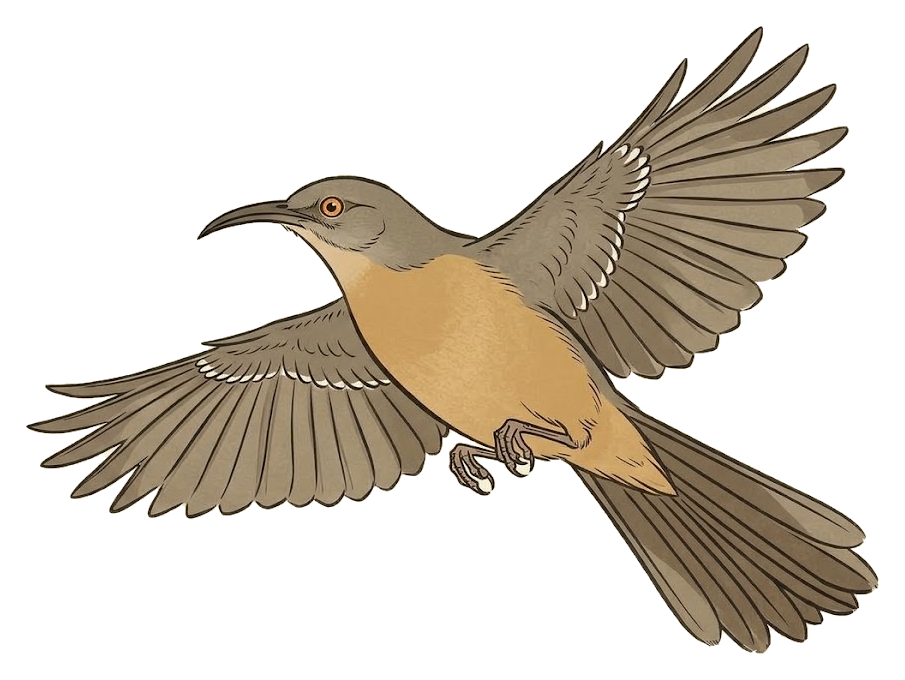
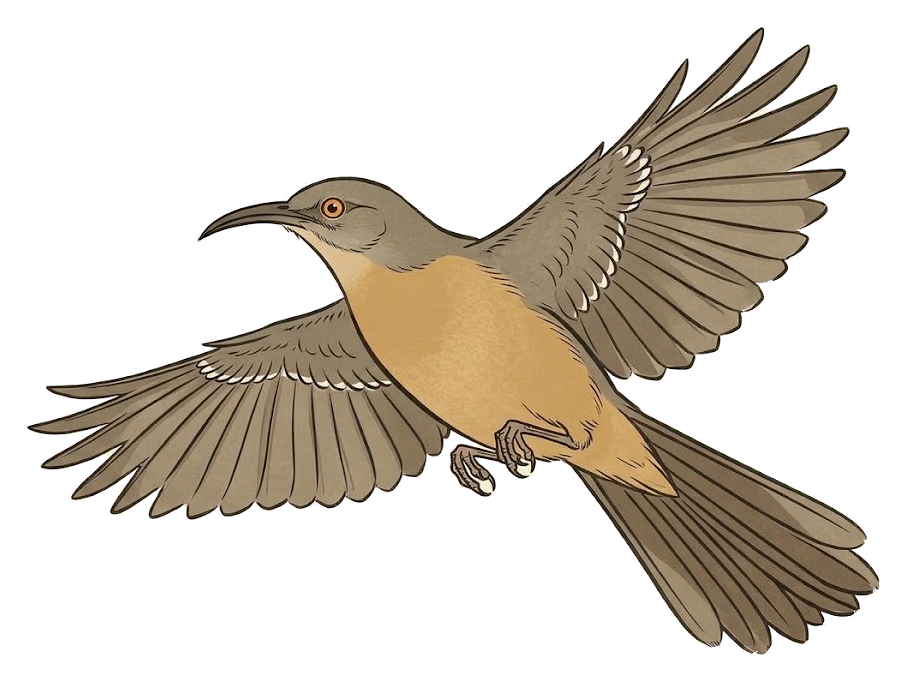
atlas: soft, rim-free edges on generated bird art
The cream-ground cutout kept anti-aliased edge pixels opaque with their
paper tint, tracing a pale rim round every dark edge that read as a
jagged outline in the Atlas and collage. Edges now get a
colour-difference matte: each edge pixel's alpha is how far it sits
from the paper toward the bird colour just inside, and its colour is
unmixed from the paper. Measured on the six new renders, the outer ring
was 110-200 levels brighter than the ink beside it; now 42-58, against
65-70 for the original BiRefNet cuts. The six are re-cut, with new
ART_REVISIONS so browsers fetch them. A test covers the rim.

diff --git a/avian/frontend/apt.js b/avian/frontend/apt.js
@@ -14,13 +14,14 @@
   // with clean cutouts, so drop every cached copy.
   // Keep table and one-off art revisions separate from the library-wide
   // versions above. A corrected species should not evict every bird image.
-  var TABLE_VERSION = 'r14';
+  var TABLE_VERSION = 'r15';
   var ART_REVISIONS = {
     'aphelocoma-woodhouseii': 'anatomy-1',
-    // 2026-10-11: first art for these three (Nano Banana 2, by hand).
-    'pica-hudsonia': 'nb2-1',
-    'dryobates-scalaris': 'nb2-2',
-    'toxostoma-curvirostre': 'nb2-1'
+    // 2026-10-11: first art for these three (Nano Banana 2, by hand);
+    // -soft: re-cut with the soft edge matte.
+    'pica-hudsonia': 'nb2-1-soft',
+    'dryobates-scalaris': 'nb2-2-soft',
+    'toxostoma-curvirostre': 'nb2-1-soft'
   };
   function artRevision(sci, fallback) {
     return ART_REVISIONS[slugify(String(sci || ''))] || fallback;

diff --git a/avian/frontend/index.html b/avian/frontend/index.html
@@ -399,6 +399,6 @@ var p=preference();d.setAttribute('data-theme',p==='light'||p==='dark'?p:systemT
 <script src="./stamp-batch-a.js?v=r341"></script>
   <script src="./stamp-batch-b.js?v=r318"></script>
 <script src="./stamp-batch-c.js?v=r235"></script>
-<script src="./apt.js?v=r302"></script>
+<script src="./apt.js?v=r303"></script>
 </body>
 </html>

diff --git a/avian/scripts/generate_one.py b/avian/scripts/generate_one.py
@@ -78,12 +78,57 @@ def _solid_mask(dist: np.ndarray, tol: float) -> np.ndarray:
     return np.asarray(sm) > 127
 
 
+def _box(a: np.ndarray, r: int) -> np.ndarray:
+    """Mean over a (2r+1)-square window, edges clamped (HxW or HxWxC)."""
+    k = 2 * r + 1
+    pad = [(r, r), (r, r)] + [(0, 0)] * (a.ndim - 2)
+    c = np.cumsum(np.cumsum(np.pad(a, pad, mode="edge"), 0), 1)
+    c = np.pad(c, [(1, 0), (1, 0)] + [(0, 0)] * (a.ndim - 2))
+    return (c[k:, k:] - c[:-k, k:] - c[k:, :-k] + c[:-k, :-k]) / (k * k)
+
+
+def _morph(mask: np.ndarray, size: int, grow: bool) -> np.ndarray:
+    im = Image.fromarray(mask.astype(np.uint8) * 255)
+    im = im.filter(ImageFilter.MaxFilter(size) if grow else ImageFilter.MinFilter(size))
+    return np.asarray(im) > 127
+
+
+def _edge_matte(arr: np.ndarray, paper: np.ndarray, solid: np.ndarray,
+                noise: float) -> tuple[np.ndarray, np.ndarray]:
+    """Soft alpha and paper-free colour in a thin band round the silhouette.
+
+    Each edge pixel is a mix of the bird colour just inside it (F, the
+    average of nearby interior pixels) and the paper (P); alpha is how far
+    it sits from P toward F, and its colour is unmixed from the paper.
+    Keeping those pixels opaque with their paper tint (the old feather)
+    traced a pale rim round every dark edge, which read as a jagged
+    outline on the site's lighter backgrounds. Where F is too close to the
+    paper to tell them apart (a pale throat on cream), the silhouette is
+    kept, lightly softened."""
+    C = arr.astype(np.float64)
+    P = np.asarray(paper, np.float64)
+    inner = _morph(solid, 5, grow=False)
+    band = _morph(solid, 5, grow=True) & ~inner
+    weight = _box(inner.astype(np.float64), 4)
+    F = _box(C * inner[..., None], 4) / np.maximum(weight, 1e-6)[..., None]
+    FP, CP = F - P, C - P
+    fp2 = (FP ** 2).sum(2)
+    a = np.clip((CP * FP).sum(2) / np.maximum(fp2, 1e-6), 0.0, 1.0)
+    weak = (fp2 < (3 * noise) ** 2) | (weight < 0.02)
+    a = np.where(weak, _box(solid.astype(np.float64), 1), a)
+    alpha = np.where(inner, 1.0, np.where(band, a, 0.0))
+    out = C.copy()
+    m = band & (alpha > 0.05)
+    out[m] = np.clip(P + CP[m] / alpha[m][:, None], 0, 255)
+    return alpha, out.astype(np.uint8)
+
+
 def chroma_cut(src: Path, dst: Path, tol: float | None = None) -> None:
     """Instant cutout for a cream-ground render: everything reachable from
     the border through near-paper pixels is background; everything else is
     bird. Enclosed pale patches (a white belly) are unreachable, so they
     stay opaque - the same property the BiRefNet pipeline's fill step has
-    to reconstruct. Edges get a light feather instead of a learned matte.
+    to reconstruct. Edges get a colour-difference matte (_edge_matte).
 
     The paper tolerance adapts per image: the model renders real grain
     and a slight vignette, so the ground's distance-from-corner-paper
@@ -101,8 +146,9 @@ def chroma_cut(src: Path, dst: Path, tol: float | None = None) -> None:
     dist = np.sqrt(((arr.astype(np.int32) - paper) ** 2).sum(2))
     border = np.concatenate([dist[:40, :].ravel(), dist[-40:, :].ravel(),
                              dist[:, :40].ravel(), dist[:, -40:].ravel()])
+    noise = float(np.percentile(border, 99))
     if tol is None:
-        auto = float(min(40.0, max(15.0, 2.5 * np.percentile(border, 99))))
+        auto = float(min(40.0, max(15.0, 2.5 * noise)))
         solid = _solid_mask(dist, auto)
         # Leak check: where pale plumage meets the ground with no ink line,
         # the flood runs into the bird. A tighter cut then keeps much more
@@ -113,13 +159,10 @@ def chroma_cut(src: Path, dst: Path, tol: float | None = None) -> None:
             solid = tight
     else:
         solid = _solid_mask(dist, tol)
-    binary = solid.astype(np.uint8) * 255
-    # Feather: soften the silhouette edge, keep the interior fully opaque,
-    # never bleed outside the silhouette.
-    af = np.asarray(Image.fromarray(binary).filter(ImageFilter.GaussianBlur(0.8))).copy()
-    af[~solid] = 0
+    alpha, rgb = _edge_matte(arr, paper, solid, noise)
+    af = (alpha * 255).round().astype(np.uint8)
 
-    rgba = np.dstack([arr, af]).astype(np.uint8)
+    rgba = np.dstack([rgb, af]).astype(np.uint8)
     fg = af > 40
     ys, xs = np.where(fg)
     if not len(ys):

diff --git a/tests/test_chroma_cut.py b/tests/test_chroma_cut.py
@@ -4,7 +4,7 @@ import tempfile
 import unittest
 
 import numpy as np
-from PIL import Image, ImageDraw
+from PIL import Image, ImageDraw, ImageFilter
 
 ROOT = pathlib.Path(__file__).resolve().parents[1]
 sys.path.insert(0, str(ROOT / "avian" / "scripts"))
@@ -43,6 +43,25 @@ class ChromaCutTests(unittest.TestCase):
         outlined = bird_area(render(outline_gap=False))
         open_edge = bird_area(render(outline_gap=True))
         self.assertGreater(open_edge, 0.95 * outlined)
+
+    def test_dark_edge_has_no_pale_rim(self):
+        """Anti-aliased edge pixels are part paper; kept opaque with their
+        cream tint, they traced a pale rim round every dark edge that read
+        as a jagged outline on the Atlas's lighter background."""
+        big = Image.new("RGB", (1600, 1600), PAPER)
+        ImageDraw.Draw(big).ellipse((400, 400, 1200, 1200), fill=(25, 25, 45))
+        img = big.resize((400, 400), Image.LANCZOS)  # smooth, anti-aliased edge
+        with tempfile.TemporaryDirectory() as tmp:
+            src, dst = pathlib.Path(tmp, "raw.png"), pathlib.Path(tmp, "cut.png")
+            img.save(src)
+            generate_one.chroma_cut(src, dst)
+            cut = np.asarray(Image.open(dst)).astype(float)
+        a = cut[:, :, 3:] / 255
+        seen = (cut[:, :, :3] * a + 250 * (1 - a)).mean(2)  # over a near-white page
+        opaque_ring = cut[:, :, 3] >= 200
+        ring = opaque_ring & ~np.asarray(
+            Image.fromarray((opaque_ring * 255).astype(np.uint8)).filter(ImageFilter.MinFilter(3))).astype(bool)
+        self.assertLess(seen[ring].mean(), 80, "the opaque edge is pale, not ink")
 
 
 if __name__ == "__main__":
